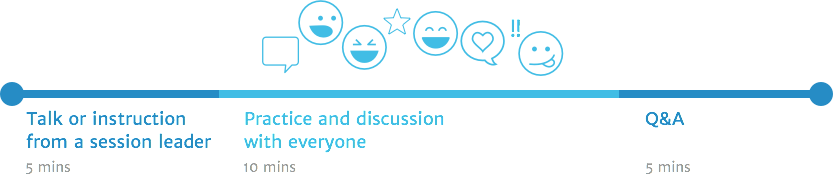
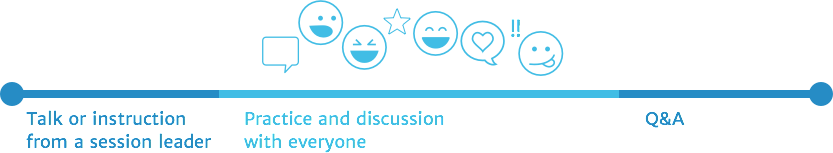
Updates how it works graphic and moves it to homepage

Changed region(s): [[0.0, 0.0, 1.0, 0.9935], [0.7491, 0.915, 0.8427, 0.9935], [0.3121, 0.366, 0.3745, 0.4444]]

diff --git a/index.html b/index.html
@@ -17,7 +17,29 @@ layout: master
   </div>
 </header>
 
-    <main class="pbx-ns">
+    <main>
+      <section class="mvxl mhm">
+        <h2 class="mw-75-ns center f3 fw7 tc dark-blue mbl">OneRoom connects people who are interested in learning the same stuff.</h2>
+        <div class="tc">
+          <img src="img/what-is-oneroom.png" style="max-width: 856px;" />
+        </div>
+      </section>
+
+      <section class="mvxl mhm">
+        <h2 class="mw-75-ns center f3 fw7 tc dark-blue mbl">Sessions usually go something like this.</h2>
+        <div class="tc">
+          <img src="img/typical-class.png" style="max-width: 833px;" />
+          <h4 class="light-silver fw4 mtl">(Sessions are 20 to 45 minutes long)</h4>
+        </div>
+      </section>
+
+      <section class="mbl mtxl mhm">
+        <h2 class="mw-75-ns center f3 fw7 tc dark-blue mbl">Connect with people from anywhere in the world who are passionate about the same topics.</h2>
+        <div class="tc">
+          <img src="img/class-location.png" style="max-width: 650px;" />
+        </div>
+      </section>
+
       <section class="bg-lightest-gray tc center pvl phm">
         <div class="cf mw-100 mw8-ns center">
           <h3 class="f1 tc fw4 silver">Featured Classes</h3>
@@ -30,27 +52,6 @@ layout: master
         <div class="tc pam mts">
           <a class="btn btn--blue pal br3" href="http://app.joinoneroom.com/course">Browse all classes</a>
         </div>
-      </section>
-      <section class="bg-aqua-light tc center pvl">
-        <h3 class="mtn f2 fw4 tc silver mbn mtl">Subscribe to OneRoom News</h3>
-        <div class="phm phl-ns lh-copy f4 ptm pbl br3">
-          <form action="//joinoneroom.us8.list-manage.com/subscribe/post?u=76d6db963f53c6373ac58a7dd&amp;id=04aed0f3b7" method="post" id="mc-embedded-subscribe-form" name="mc-embedded-subscribe-form" class="validate" target="_blank" novalidate>
-            <div class="mc-field-group">
-              <div class="mw6 mbl mtm dib wi-50-ns wi-100 mc-field-group">
-                <input id="mce-EMAIL" type="email" class="wi-100 ba b--gray br2 pas required email" placeholder="example: writer@gmail.com" name="EMAIL"/>
-              </div>
-              <div id="mce-responses" class="clear">
-                <div class="response" id="mce-error-response" style="display:none;color:#fff"></div>
-                <div class="response" id="mce-success-response" style="display:none;color:#fff"></div>
-              </div>
-              <div class="mtn">
-                <input type="submit" value="Subscribe to OneRoom News" class="f5 btn btn--blue pam br3 ba bs-none" name="subscribe" id="mc-embedded-subscribe">
-              </div>
-
-              <!-- real people should not fill this in and expect good things - do not remove this or risk form bot signups-->
-              <div style="position: absolute; left: -5000px;"><input type="text" name="b_76d6db963f53c6373ac58a7dd_04aed0f3b7" tabindex="-1" value=""></div>
-          </form>
-            </div>
       </section>
     </main>
 

diff --git a/about.html b/about.html
@@ -8,11 +8,8 @@ title: How it Works
 <header>
   <div class="link">
   </div>
-  <div class="bt bw3 b--green center mw-fill-l phm phl-ns pbl bg-cv" style="background-image:url(img/writers_header.jpg);background-position: center top;">
-    <h1 class="mtn f1 mega-ns fw7 white tc ptn mtl mbm">Online Classes, Humanized</h1>
-    <div class="tc pam">
-      <a class="btn btn--blue pal br3" href="http://app.joinoneroom.com/course">Browse the class catalog</a>
-    </div>
+  <div class="bt bw3 b--green center mw-fill-l phm phl-ns pvl bg-cv" style="background-image:url(img/writers_header.jpg);background-position: center top;">
+    <h1 class="f1 fw7 white tc pvn">Live, Real-Time Video Classes</h1>
     <hr style="height:0;background:rgba(0,0,0,.1);border:0;" class="mw7 mvn">
   </div>
 </header>
@@ -94,7 +91,7 @@ title: How it Works
     <p class="fw1 f3 tc">Shoot!</p>
     <article>
       <h3>Will it work for my schedule?</h3>
-      <p>Probably! When you sign up for a class, we'll ask for your scheduling preferences, and do our best to accommodate. New classes are being scheduled all the time. <a href="how-a-class-works.html" class="link">Learn more about how we schedule classes here.</a></p>
+      <p>Probably! When you sign up for a class, we'll ask for your scheduling preferences, and do our best to accommodate. New classes are being scheduled all the time.</p>
     </article>
     <article>
       <h3>How much does it cost?</h3>
